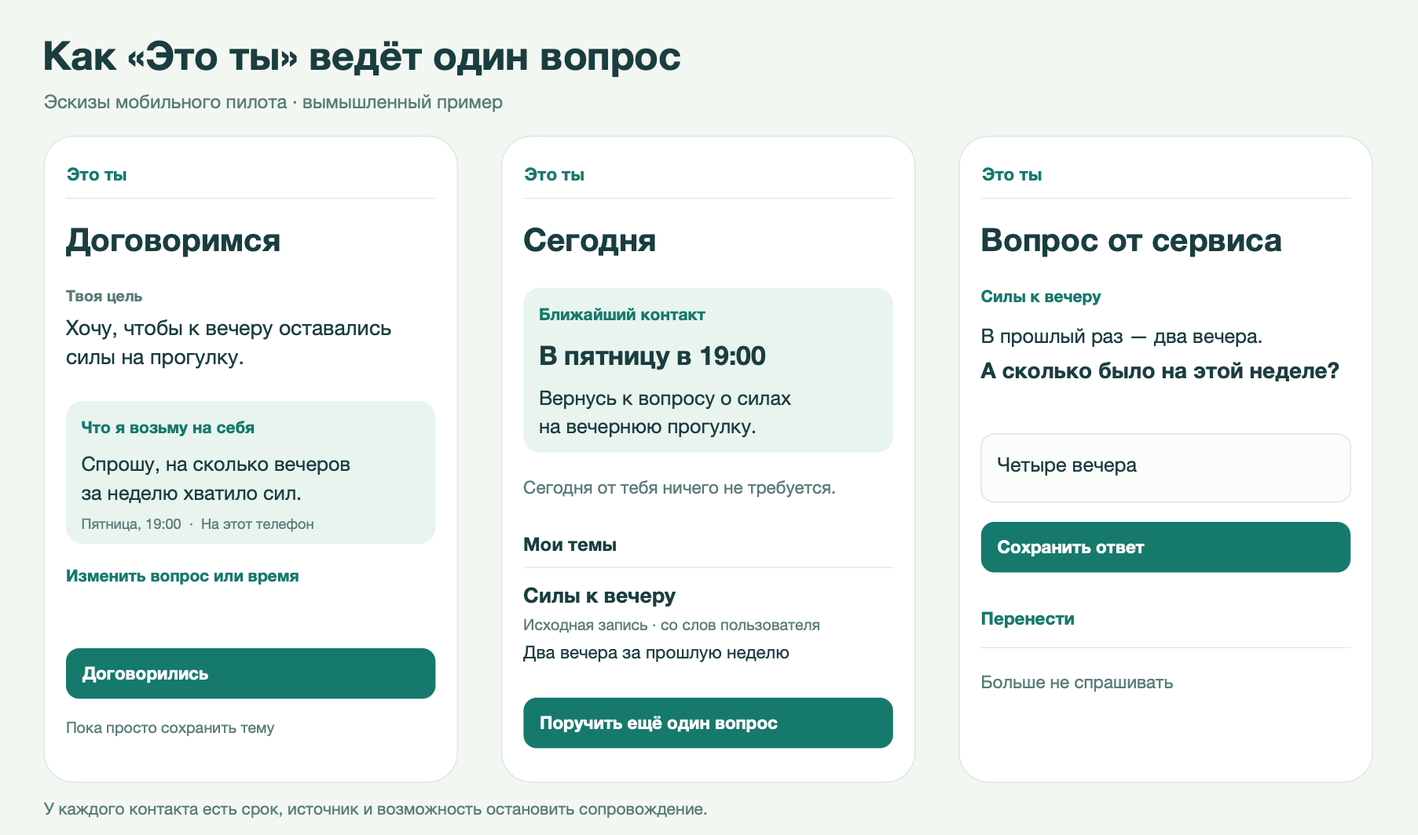
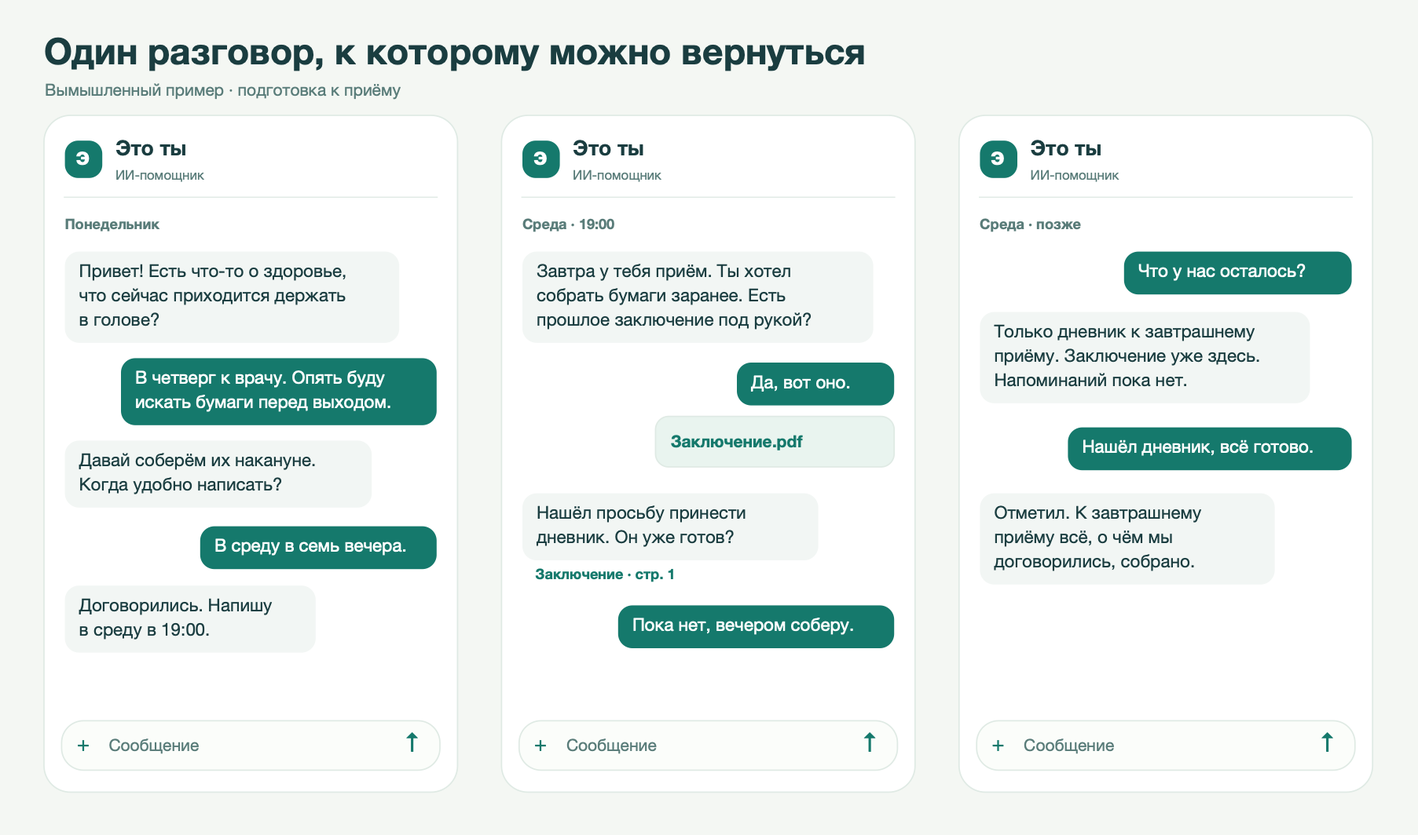
Design proactive care around one continuous conversation

diff --git a/docs/plan/screens.md b/docs/plan/screens.md
@@ -1,60 +1,51 @@
-# Экраны и поведение
+# Один разговор с «Это ты»
 
 [План проекта](README.md)
 
-![Три мобильных экрана. Человек соглашается на вопрос в пятницу, видит его на главной и отвечает с учётом прошлого наблюдения.](screens.png)
+![Одна переписка в три разных момента. Помощник первым знакомится, возвращается накануне приёма и отвечает, что осталось сделать.](screens.png)
 
-На телефоне три постоянные вкладки: **Сегодня**, **Диалог**, **История**. Сегодня отвечает на вопрос «Что поручено и когда я понадоблюсь?». Диалог принимает свободный ввод. История позволяет найти источник и понять, почему изменился план. Темы открываются из «Сегодня», документ — из диалога, истории или конкретного факта. Настройки доступны с «Сегодня». На большом экране те же адреса и значения, детали можно показать справа. Идентификатор в ссылке не раскрывает тему.
+После входа человек видит последнюю часть своей переписки. При первом открытии его уже ждёт короткое сообщение от «Это ты». В шапке — «Это ты · ИИ-помощник» и доступ к профилю. Внизу — поле ответа, системная диктовка и, на этапе B, вложение. В обычном сценарии этого достаточно: написать о себе, задать встречный вопрос, поручить дело, изменить срок или остановить обращения можно своими словами. Человек видит один знакомый голос. Если позже к разговору действительно присоединится врач, его сообщения получат имя и роль.
 
-## Карта переходов
+## Как это звучит
 
-```mermaid
-flowchart TD
-    Start["Первый вход"] --> Talk["Диалог"]
-    Talk --> Agree["Предложение и срок"]
-    Agree --> Today["Сегодня"]
-    Today --> Topic["Тема и план"]
-    Topic --> Evidence["Источник"]
-    Talk --> Review["Разбор документа"]
-    Review --> Evidence
-    Review --> Topic
-    Push["Уведомление"] --> Check["Вопрос сервиса"]
-    Today --> Check
-    Check --> Topic
-    History["История"] --> Evidence
-    History --> Topic
-    Topic --> Brief["Сводка к приёму"]
-```
+**После подписки.** «Привет. Я помогу помнить о том, что касается твоего здоровья. Есть что-то, что сейчас приходится держать в голове?» Человек: «В четверг к врачу. В прошлый раз опять искал бумаги в последний момент». Помощник: «Могу написать накануне, чтобы спокойно всё собрать. Когда удобно?» — «В среду в семь вечера». После сохранения и при включённом канале: «Договорились. Напишу в среду в 19:00». Если человек отвечает «у меня всё нормально», предложить одну лёгкую возможность: «Хочешь, через неделю я спрошу, как ты себя чувствуешь?» Отказ оставляет переписку открытой для его собственного сообщения.
 
-## Спецификация экранов
+**В среду в 19:00.** Помощник пишет первым: «Завтра у тебя приём. Ты хотел заранее собрать бумаги. Есть прошлое заключение под рукой? Можно прислать фото сюда». Если человек отвечает «уже всё собрал», сервис закрывает поручение и сообщает об этом. Если загружает документ, помощник может, после проверки, ответить: «Нашёл в заключении просьбу принести дневник. Ты его уже подготовил?» Нажатие на цитату открывает страницу. Человек может в любой момент сменить тему или задать вопрос, зачем нужен файл.
 
-A — первый работающий цикл, B — документы и сводка, C — один рецензированный сценарий профилактики. Идентификаторы используются в очереди разработки и приёмке. Регистрацию и восстановление учитываем в маршруте, даже если первые показы проходят на синтетическом профиле.
+**В любой день.** «Что у нас осталось?» — «К приёму остался дневник. Его просили принести в прошлом заключении. Следующих напоминаний пока нет». Сводка строится по фактическому состоянию на момент запроса. «Давай пореже» при согласованной еженедельной беседе — «Как насчёт раза в две недели?» После «да» сервис меняет серию и называет новую дату. «Больше не спрашивай про сон» сразу останавливает обращения по этой теме. «Вообще пока не пиши первым» ставит на паузу все инициативные обращения и сообщает, что человек может сам написать в любой момент.
 
-| Экран | Что сверху вниз на телефоне | Основное действие и куда ведёт | Если что-то пошло иначе |
-|---|---|---|---|
-| S01 · Первый вход и доступ · A | Одно предложение о сервисе, поле «Что взять на себя?», вторичный вход для вернувшихся. До создания аккаунта — локальное демо с вымышленной историей. Для сохранения — вход и краткое объяснение, где будут данные | «Начать» → S03. Дать попробовать текст, позже предложить сохранить договорённость | «Пока не знаю» открывает два примера или пустое «Сегодня». Незавершённая авторизация не создаёт расписание. По ссылке из пуша после входа открывается тот же вопрос, если он ещё активен |
-| S02 · Сегодня · A | Сначала одно дело, требующее участия прямо сейчас. Затем ближайший контакт с датой и каналом. Ниже темы с последним источником. Кнопка «Поручить вопрос», вход в настройки | Ответить → S05, открыть тему → S06, начать новую → S03 | В пустом профиле одна точка входа. В спокойный день «Сегодня от тебя ничего не требуется» с датой следующего контакта. Если внешняя связь выключена, сообщить, что вопрос появится внутри |
-| S03 · Диалог · A/B | История разговора, одно короткое уточнение, поле ввода, затем фото/PDF в B. Сохранённые факты и предложенные действия различимы прямо в ленте | Из свободной фразы показать редактируемое предложение → S04. Из файла → S07. Пользователь может ответить диктовкой клавиатуры | Кнопки «Пропустить» и «Зачем спрашиваете?». При таймауте модели оставить введённый текст и предложить вручную сохранить тему. Повторная отправка одной фразы после обрыва не создаёт второе поручение |
-| S04 · Подтвердить договорённость · A | Название темы, что берёт сервис, какой вопрос задаст, когда по местному времени, по какому каналу, что потребуется от человека | «Договорились» → S02 с карточкой ближайшего контакта. «Изменить» оставляет текст редактируемым | Неизвестный срок из выписки так и обозначается. Время добровольного напоминания указывается отдельно. Отказ от внешних уведомлений оставляет канал «только в приложении» |
-| S05 · Вопрос сервиса · A | Договорённость, прошлый ответ с датой, один сегодняшний вопрос, ответ в одну строку. Внизу «Перенести», «Больше не спрашивать» | После ответа показать, что изменилось и есть ли новый срок → S06. Для нового контакта требуется прежнее согласие на серию или новое подтверждение | По устаревшей ссылке показать «Вопрос уже закрыт/перенесён» и актуальную тему. На втором устройстве повторный ответ не дублируется. Пропуск не трактуется как плохое самочувствие |
-| S06 · Тема и план · A/B/C | Что человек поручил, состояние сопровождения, следующий шаг и его ответственный, затем «Что известно», «Что изменилось», «Чего пока не знаем». У каждого факта источник и дата | Переход к источнику S07, редактирование договорённости S04, завершение или пауза. В B — подготовить сводку S09 | При конфликте показываем обе записи и предлагаем уточнить. При потере источника видна последняя дата. Закрытую тему можно открыть заново с новой договорённостью |
-| S07 · Материал и проверка · B | Тип, дата документа, оригинал со страницей, выдержка рядом с распознанным полем. Явная метка «Нужно уточнить». Внизу будущие изменения плана | «Подтвердить» или исправить поле → обновлённая S06. Единым действием подтверждаются только хорошо читаемые и однозначные поля | Плохое фото — можно переснять, ввести только спорное место или отложить. Дубликат ведёт к ранее принятой версии. Документ другого человека не попадает в профиль |
-| S08 · История · A/B | Датированная лента. По каждому событию различимы дата самого события и дата загрузки. В B — фильтры по теме и типу, поиск документа | Открыть событие → S06 или S07, вернуться к старой версии плана | При нуле записей вход в диалог. После исправления видна связь между версиями. Удалённый источник больше не открывается |
-| S09 · К приёму · B | Выбранный период, цель визита, проверенные факты с датами, действующие поручения в исходной формулировке и вопросы. Предпросмотр одной страницы | Выбрать пункты → сохранить локальную копию или показать с экрана. Отправку врачу инициирует сам пользователь | При недостатке данных допускается сводка из одного вопроса. ИИ-гипотеза не становится фактом в экспорте. До сохранения видно, какие данные войдут |
-| S10 · Настройки, доступ и данные · A/B | Устройство и канал связи, тихие часы, часовой пояс, разрешения, сессии. В B — экспорт, удаление, обработчики файлов. Позже — тариф с датой окончания | «Проверить связь», «Пауза», выгрузить, отозвать согласие, удалить с отдельным подтверждением. После изменения виден эффект на ближайший контакт | При недоступном push предлагаем проверить канал. Окончание подписки сохраняет доступ к выгрузке и открытым делам в пределах объявленной политики хранения. По запросу на удаление показываем ход и срок |
-| S11 · Профилактика внутри темы · C | По какому вопросу проверяется применимость, какие признаки уже известны, что изменит одно уточнение, источник и дата рекомендации, что можно вынести на обсуждение с врачом | Ответить, приложить имеющийся источник или отложить → S06 с объяснением изменения | При отсутствии рецензированного правила или конфликте вывод остаётся открытым. Фраза «данных нет» не порождает список покупок |
+## Когда помощник берёт слово
 
-## Три ключевых разговора
+| Повод | Реплика и действие |
+|---|---|
+| Первое открытие | Одно приветствие и посильный вопрос. После повторного входа или оплаты другая сессия продолжает ту же переписку. Для внешнего контакта нужны согласованный повод и доступный канал. |
+| Настал согласованный срок | Начать с конкретной детали из прошлого разговора, задать один вопрос. Push нейтрален, открывает именно это сообщение в переписке. Если push выключен, при договорённости сказать «Вопрос будет ждать здесь». |
+| Новый материал меняет план | Кратко объяснить изменение, дать открыть основание, при неоднозначности задать одно уточнение. Повторная загрузка и каждый этап распознавания не вызывают отдельных пушей. |
+| Ответа пока нет | Оставить вопрос в переписке. Не делать вывод о самочувствии и не увеличивать частоту. Следующее необязательное обращение допустимо только при отдельной действующей договорённости. |
+| Несколько тем или долгое молчание | Сохранить контекст каждой темы за единым диалогом. Если «перенеси это» подходит к двум делам, назвать их и уточнить один раз. В тихий день план доступен по запросу, знакомство не начинается заново. |
 
-**Начало с одной фразы.** Человек пишет «К вечеру часто не остаётся сил на то, что я планировал». Сервис отвечает «Что удобнее отслеживать — сколько вечеров за неделю у тебя хватало сил, или хочешь сформулировать свой вопрос?» После выбора: «Сколько таких вечеров было за прошлую неделю? Можно пропустить». Карточка предлагает пятницу и время, даёт их изменить. Пользователь может поручить только один контакт. Для неопределённого ответа предусмотрен выход «Сохранить тему и вернуться позже» без внешнего сообщения.
+## Состояния интерфейса для разработки
 
-**Инициатива через неделю.** На экране блокировки нейтральное «Это ты · есть запланированный вопрос». После входа: «В прошлый раз ты назвал два вечера. А сколько было на этой неделе?» После «четыре» человек видит обе записи, может добавить контекст, завершить наблюдение или договориться ещё на неделю. Если ответа нет, вопрос остаётся на «Сегодня». Ежедневных догоняющих сообщений по умолчанию нет.
+Номера S01–S11 связывают работу с очередью разработки. Пользователь проходит повседневный путь в одном окне. Разворачиваем деталь, только когда человеку полезно посмотреть источник, сверить несколько пунктов, дать системное разрешение или получить копию. После закрытия детали восстанавливаем место в переписке и набранный черновик.
 
-**Две темы и один документ.** Вымышленная выписка содержит поручение принести дневник и отдельно упоминает запись о сне. Сервис предлагает две связи с одной страницей. Пользователь подтверждает только поручение, а неоднозначную запись оставляет открытой. Следующая выписка явно говорит «дневник просмотрен» — в истории появляется предложение закрыть именно это поручение. Вторая тема остаётся доступна с прежней историей. Врачебный срок и договорённое время следующего контакта имеют разные подписи и поля.
+| Состояние | Как человек попадает сюда | Что делает сервис и как выйти |
+|---|---|---|
+| S01 · Знакомство и вход · A | Первое открытие или возврат по ссылке | Показывает приветствие один раз. Синтетический пример доступен до регистрации. Для личного сохранения поясняет вход. Возврат из авторизации ведёт к исходной реплике. |
+| S02 · Короткая сводка · A | «Что ты сейчас ведёшь?», «Мне сегодня что-то нужно?» | Отвечает в диалоге: что открыто, кто действует, когда следующий контакт и какие каналы доступны. При нескольких темах можно развернуть полный список. Пустой план и пауза названы прямо. |
+| S03 · Переписка · A/B | Открытие приложения, собственная фраза или вложение | Постоянная лента и строка ввода. Текст, диктовка клавиатуры, позднее фото/PDF. При обрыве сохраняется черновик; повтор отправки не создаёт ещё одно дело. |
+| S04 · Договорённость · A | «В среду в семь», «давай только один раз» | Рядом с предыдущей репликой подтверждает понятный вопрос, срок и доступный канал. Уточняет только неоднозначное. Неизвестный срок из документа остаётся открытым. Пока запись не сохранена, обещание «напишу» не показывается. |
+| S05 · Инициатива · A | Наступил срок; открыли пуш или сам диалог | Помощник первым задаёт вопрос в той же ленте. Можно ответить, перенести, закончить или поговорить о другом. По старой ссылке показывается актуальный статус и реплика, к которой относился контакт. |
+| S06 · Тема подробнее · A/B/C | «Что мы знаем по этой теме?» или раскрытие упоминания | Показывает известное, источник, пробел и ответственного. Пауза или изменение срока работают и обычной фразой. Если источник устарел, дата видна. |
+| S07 · Материал и проверка · B | Прислали файл или открыли цитату | В чате короткий итог; по касанию оригинал, страница, фрагмент и спорные поля. Можно исправить словами, переснять или отложить. При неоднозначной принадлежности файл остаётся вне личной истории до уточнения. |
+| S08 · Поиск по прошлому · A/B | «Найди, что я говорил в прошлый раз» | Возвращает выдержку со ссылкой на исходное сообщение или документ, датой события и при необходимости датой загрузки. Схожие совпадения можно раскрыть списком. |
+| S09 · Сводка врачу · B | «Собери к приёму» | Предлагает предпросмотр: задача визита, факты и вопросы. Человек выбирает, что включить и кому передать. Сам запрос на сборку никому ничего не отправляет. |
+| S10 · Связь, подписка и данные · A/B | «Пиши пореже», «выгрузи историю», значок профиля | Обычное изменение применяется с краткой квитанцией. Прямой доступ к паузе, экспорту, системным разрешениям и удалению есть также в профиле. Удаление и передача третьему лицу требуют явного подтверждения конкретного действия. |
+| S11 · Профилактическое уточнение · C | Возник вопрос с основанием в проверенном правиле | Объясняет одним предложением, зачем нужен ответ и что он изменит. Можно приложить имеющийся документ или пропустить. В подробностях — источник, версия и пределы применимости. |
 
-## Решения по взаимодействию
+## Что значит «присутствие» при приёмке
 
-- При нескольких одновременных делах сначала уже согласованное на сегодня, затем действие с известным сроком, затем необязательное уточнение. Равные по приоритету дела сортируем по сроку. Исключительный сценарий просьбы о срочной помощи прерывает обычный разговор и следует отдельному, проверенному для региона тексту. Очередь сервиса не обеспечивает срочной связи.
-- Ограничение продукта для пилота — одно необязательное инициативное обращение в согласованное окно. Изменившееся поручение, молчание человека или покупка подписки не дают автоматического согласия усилить частоту. Контакты можно объединить в один входящий элемент со списком.
-- Важные состояния имеют текст и доступны без различения цветов. Проверяем основной путь с крупным системным шрифтом, клавиатурой и VoiceOver. Длинное сообщение, пустой ответ и недоступность микрофона не блокируют текстовый ввод.
-- Во всех трёх вкладках данные берутся из одной версии плана. После нескольких дней без связи экран показывает дату последнего обновления. На первом этапе чувствительные данные не сохраняем для полноценной офлайн-работы на общем устройстве.
+- Основатель на телефоне без экскурсии и поиска разделов проходит знакомство, согласует контакт, получает первое инициативное сообщение, отвечает и меняет следующую договорённость обычной речью.
+- Когда человек заговорил о другой теме, ответ возвращается к его текущей реплике. Незавершённое дело остаётся в плане. Тот же вопрос на Mac открывается с ответом, уже написанным на телефоне.
+- Помощник вспоминает только сведения с доступным основанием. На «почему ты спросил?» отвечает конкретной прошлой фразой, цитатой или согласованным сроком. Если данных не хватает, говорит, чего именно не знает.
+- Важные состояния различимы текстом при крупном шрифте и VoiceOver. Второстепенные детали доступны по нажатию. Обычная пауза работает сразу; для чувствительных действий сохраняется ясное подтверждение.
+- Просьбу о срочной помощи обрабатывает отдельный проверенный для региона сценарий. Интерфейс указывает, кто пишет и есть ли живой специалист на связи. Нейтральное приглашение на заблокированном экране не раскрывает личную тему.

diff --git a/docs/plan/architecture.md b/docs/plan/architecture.md
@@ -27,7 +27,7 @@ flowchart TD
 | API и модуль плана | Аутентификация, проверка владельца, обработка команд, версии записей, согласия, экспорт. Только этот модуль принимает изменение плана. Клиент и модель не пишут в таблицы плана напрямую. |
 | Фоновый процесс | Забирает задания с ограниченным сроком захвата, разбирает файл или готовит контакт. После сбоя захват истекает, задачу можно повторить. Повтор не создаёт второй факт, действие или входящий вопрос. |
 | Модуль знаний и ИИ | Читает минимально необходимый контекст одной учётной записи, выдаёт типизированные предложения с основаниями. Правила допуска и проверка источника выполняются независимо от генерации текста. Допускается ответ «недостаточно сведений». |
-| Уведомления | В базе сначала появляется доступный из «Сегодня» вопрос. Push — средство позвать к нему. На старте выбирается одно основное устройство для внешнего контакта; на других актуальный вопрос виден при входе. |
+| Уведомления | В базе сначала появляется привязанное к контакту входящее сообщение единой переписки. Push — средство позвать к нему. На старте выбирается одно основное устройство для внешнего контакта; на других актуальный вопрос виден при входе. |
 | Эксплуатация | Отдельные среды демонстрации, тестирования и пилота. Обезличенные технические события, доступ к сбоям по коду причины, выключатели внешних отправок и обработки моделью. Ручной просмотр медицинского материала — только по определённой роли, основанию и с записью доступа. |
 
 **Почему проверяем телефон в самом начале.** WebKit описывает Web Push для веб-приложений, добавленных на домашний экран iOS, и запрос разрешения после прямого действия человека. Поэтому «разрешить уведомления» появляется после выбора срока. На реальном iPhone проверяем установку, системный запрос, закрытый клиент, режим фокусирования, переход после входа и отзыв разрешения. При недоступном канале честно показываем «вопрос появится в приложении». Если люди не проходят этот шаг или канал ненадёжен, пробуем согласованный альтернативный канал либо тонкий нативный клиент, сохраняя серверный план. [WebKit](https://webkit.org/blog/13878/web-push-for-web-apps-on-ios-and-ipados/) · [Протокол Web Push](https://www.rfc-editor.org/rfc/rfc8030)
@@ -39,6 +39,7 @@ flowchart TD
 | Сущность | Минимум данных | Смысл связи |
 |---|---|---|
 | Account, Device, Consent | Идентификатор, сессия, локаль, часовой пояс IANA, основной канал, область и версия согласия, время отзыва | Отдельные разрешения на внешнюю связь, передачу материалов обработчику и доступ человека. Покупка тарифа их не подменяет. |
+| Conversation, Message | Один постоянный диалог на профиль в пилоте, автор и его роль, порядок на сервере, время, ссылка на исходную реплику, тему и контакт | Инициативное сообщение пишется в ту же ленту. Источники и тема не зависят от прокрутки истории. Автором отображается ИИ; участие человека должно быть подтверждено. |
 | Topic | Слова пользователя, цель, статус, дата обновления, владелец следующего действия | Одна учётная запись ведёт несколько тем. Один проверенный факт может относиться к нескольким темам. |
 | Source, Evidence | Тип источника, закрытый ключ объекта, отпечаток внутри профиля, дата, страница и фрагмент; для сообщения — идентификатор и цитата | Первичный материал отделён от извлечённых значений. Можно вернуться к конкретной фразе, в том числе после повторного разбора. |
 | Observation | Тип, исходный текст, дата события, значение и единица при наличии, статус проверки, ссылки на Evidence, предыдущая версия | Ответ пользователя, измерение и запись врача имеют разное происхождение. Уточнение создаёт версию и помечает зависимые выводы к пересмотру. |
@@ -55,17 +56,20 @@ flowchart TD
 
 | Команда | Что принимает и возвращает | Правило |
 |---|---|---|
-| POST /messages | Текст, clientRequestId, необязательная тема → сообщение и proposalId либо один вопрос | Повтор запроса с тем же ключом возвращает исходный результат. Перед долгой обработкой подтверждаем приём отдельно. |
+| GET /conversation/messages | Курсор, позиция или messageId из push → история и актуальные статусы, включая паузу | Оба устройства дочитывают одну ленту в серверном порядке. Устаревшая ссылка открывает исходный контекст и текущее состояние. |
+| POST /messages | Текст, clientRequestId, необязательные ссылки на реплику и тему → ответ, уточнение или результат команды | Повтор возвращает прежний результат. «Да» связывается с конкретным действующим предложением. Сообщение «перенёс» появляется только после успешной записи новой версии. |
 | POST /proposals/{id}/accept | Исправленный вопрос, владелец, срок, зона, канал, ожидаемая версия → planItemId и следующий контакт | Предложение, новое действие и запись в очереди связываются в одной транзакции. |
-| GET /today и GET /topics/{id} | Версия плана, время актуальности, очередь, следующий срок, источники | Один и тот же источник данных для трёх вкладок и обоих устройств. |
+| GET /plan/summary и GET /topics/{id} | Версия плана, время актуальности, очередь, следующий срок, источники | Ответ «что ты ведёшь?» и раскрытая деталь строятся по тому же плану, что использует расписание. |
 | POST /contacts/{id}/responses | Ответ, перенос или остановка, ключ запроса, ожидаемая версия → итог и актуальный план | Запоздалый ответ не возобновляет закрытый контакт. При конфликте клиент получает свежую версию и выбор, как сохранить новый контекст. |
 | POST /sources и подтверждение загрузки | Тип, размер, отпечаток → короткоживущий доступ к закрытому объекту → статус обработки | Ограничиваем формат и размер, валидируем содержимое. Повтор задания и повторный файл одного владельца распознаются отдельно. Незавершённый объект истекает. |
 | POST /observations/{id}/corrections | Новое значение, причина, версия → обновлённый факт и затронутые предложения | Пересчитываем только зависимые темы. Историческую формулировку и дату можно проверить до удаления источника. |
 | POST /exports и DELETE /account | Объём выгрузки или подтверждённый запрос удаления → состояние операции | Повтор безопасен. Сразу блокируем будущие отправки, завершаем удаление из рабочих систем и учитываем срок истечения резервных копий. |
 
+**Как реплика превращается в действие.** Сначала различаем вопрос о плане, новый факт, новое поручение, ответ на прежнее предложение и команду изменения. По ссылке на реплику, теме и открытой договорённости выбираем цель. Если возможны две, задаём одно уточнение. Уверенно распознанное «не пиши первым» ставит инициативные контакты на паузу в пределах указанной темы или всего профиля. «Пореже» требует согласовать новый интервал. Для просмотра плана достаточно чтения. Для изменения используем те же доменные команды и ожидаемую версию, что и при прямом управлении из профиля. Сообщение с итогом и изменение записываются согласованно. Новый текст из приложенного документа не может сам дать разрешение на операцию.
+
 **Состояния поручения.** Предложено → согласовано → ждёт срока → ждёт ответа → результат учтён. Дополнительные переходы — отклонено, перенесено, на паузе, закрыто. Перенос увеличивает версию и заменяет будущий контакт. Закрытие из любой активной стадии отменяет будущие задания. Ответ без договорённости о продолжении завершает цикл. Отправка push сама по себе не закрывает ни одно действие.
 
-**Как дойдёт инициативный вопрос.** При подтверждении сохраняем план и задание в одной транзакции. В срок обработчик повторно проверяет статус, версию, канал, согласие, доступ к сопровождению и тихие часы. Создаёт один входящий вопрос с уникальным ключом «поручение + версия + запланированное наступление», затем пытается отправить его во внешний канал. Перед повтором проверяет те же условия. Временные сбои повторяем ограниченно с увеличением задержки до истечения срока. Отзыв подписки устройства прекращает попытки. Принятие сообщения провайдером, открытие и ответ измеряем отдельно. При сетевом сбое после принятия провайдером абсолютная гарантия единственного баннера недостижима; используем один идентификатор уведомления и одну запись во входящих. При гонке с закрытием устаревшая ссылка ведёт к обновлённой теме.
+**Как дойдёт инициативный вопрос.** При подтверждении сохраняем план и задание в одной транзакции. В срок обработчик повторно проверяет статус, версию, канал, согласие, доступ к сопровождению и тихие часы. Создаёт один входящий вопрос с уникальным ключом «поручение + версия + запланированное наступление», затем пытается отправить его во внешний канал. Перед повтором проверяет те же условия. Временные сбои повторяем ограниченно с увеличением задержки до истечения срока. Отзыв подписки устройства прекращает попытки. Принятие сообщения провайдером, открытие и ответ измеряем отдельно. При сетевом сбое после принятия провайдером абсолютная гарантия единственного баннера недостижима; используем один идентификатор уведомления и одну запись во входящих. При гонке с закрытием устаревшая ссылка ведёт к исходному сообщению с актуальным состоянием темы.
 
 **Время и два устройства.** Запоминаем, что значило «в пятницу в семь» в согласованной зоне. При смене зоны спрашиваем, оставить ли исходное местное время или перенести договорённость. Для неоднозначного или отсутствующего времени при переводе часов показываем конкретный рассчитанный момент до подтверждения. Открытие на Mac после ответа с телефона читает новую версию. Параллельное исправление не затирает первое молча.
 

diff --git a/docs/plan/delivery.md b/docs/plan/delivery.md
@@ -8,7 +8,7 @@
 
 | Период от старта | Результат | Что должно произойти до перехода дальше |
 |---|---|---|
-| Первая неделя | Отдельная ветка первой версии, три экрана на синтетическом профиле, проверка доставки на физическом iPhone | Основатель поручает тему с телефона; карточка содержит понятный срок и канал. При закрытом приложении приходит нейтральное приглашение либо испытание явно фиксирует сбой. Если установка мешает, решаем вопрос канала до PDF. |
+| Первая неделя | Отдельная ветка первой версии, одна переписка на синтетическом профиле от приветствия до повторного контакта, проверка доставки на физическом iPhone | Основатель поручает тему с телефона; помощник подтверждает в разговоре понятный срок и канал. При закрытом приложении приходит нейтральное приглашение либо испытание явно фиксирует сбой. Если установка мешает, решаем вопрос канала до PDF. |
 | К 30-му дню | Вход с двух устройств, сохраняемый план, ответ, перенос, отмена; семь дней собственного использования. После подготовки условий — несколько наблюдаемых показов на синтетических историях | На двух устройствах видна одна версия; после закрытия нет новых исходящих попыток по старой договорённости. Есть журнал того, что основателю удалось делегировать и когда приходилось напоминать сервису самому. |
 | К 90-му дню | Один тип PDF и фото, проверяемые факты, исправление, сводка для врача, выгрузка. Намечен двухнедельный внешний пилот на 10 взрослых, поровну в двух сценариях | Клинический рецензент и порядок работы с реальными документами определены до загрузки. Есть результаты сравнения с обычным чатом и напоминаниями, отдельный учёт фактической оплаты. При отсутствии условий продолжаем синтетическое тестирование и пользовательские интервью. |
 | К 180-му дню | Два последовательных месяца наблюдения в платной когорте, себестоимость по видам работы, решение о следующем канале и клинической теме | Платное продление после спокойного месяца, измеренный объём ручного труда, приемлемые расходы и безопасность. Если люди ценят только разовый документ, тестируем разовый разбор или сопровождение после визита как отдельный продукт. |
@@ -19,7 +19,7 @@
 
 | № | Работа и зависимость | Видимый результат и критерий готовности | Оценка |
 |---|---|---|---|
-| 01 | Первый вход, диалог, подтверждение и «Сегодня» на вымышленной истории. Без зависимостей | S01–S04. Написать свою цель, увидеть предлагаемый вопрос и срок, изменить их, подтвердить или отказаться. В пустом профиле есть польза без файла и анкеты. | 2–4 дня |
+| 01 | Приветствие помощника, свободная реплика, договорённость и сводка по запросу в одном диалоге. Без зависимостей | S01–S04. Человек отвечает на приветствие, меняет срок одной фразой и спрашивает «что ты ведёшь?». Всё проходит в одной переписке. В пустом профиле есть польза без файла и анкеты. | 2–4 дня |
 | 02 | Проверить внешний канал на физическом iPhone и закрытом приложении. Параллельно с 01 | Пользователь разрешает контакт по собственной кнопке. Ссылка открывает нужный пример. Отказ и отзыв разрешения видны на экране. В карточке испытания отмечены устройство, версия, время, увиденный результат. | 1–3 дня |
 | 03 | Сессии на двух устройствах, БД и команды плана. После 01 | Подтверждённая тема остаётся после перезагрузки, видна с Mac; есть проверка другого аккаунта и безопасный повтор команды. | 3–6 дней |
 | 04 | Расписание, входящие, ответ, перенос, пауза. После 02 и 03 | S02, S04–S06, S10. Один согласованный контакт завершается результатом; перенос и закрытие на втором устройстве переживают перезапуск процесса. | 3–6 дней |
@@ -33,8 +33,8 @@
 ### Первый рабочий спринт
 
 1. Взять 01 и 02. Подготовить три синтетических набора состояний: пусто, договорились, пришло время ответить. Записать исходный SHA в описание ветки. Работа идёт в коротких ветках; изменения и критерий приёмки видны с любого Mac.
-2. Показать основателю путь «одна фраза → предложение → сегодня» без подсказок. Спросить: «Что сервис теперь сделает сам? Когда? Что останется тебе?» Исправить экран, если ответ отличается от действительного плана.
-3. В испытании доставки создать нейтральный вопрос через две минуты. Закрыть приложение, увидеть приглашение на физическом устройстве, войти, ответить и открыть актуальную карточку с Mac после реализации 03–04. Повторить для отказа от push и отмены до срока. В отчёте различать ручное наблюдение, имитацию и автоматический тест.
+2. Показать основателю путь «помощник заговорил первым → ответ своими словами → договорённость → сводка по запросу» без подсказок. Спросить: «Что сервис теперь сделает сам? Когда? Что останется тебе?» Исправить экран, если ответ отличается от действительного плана.
+3. В испытании доставки создать нейтральный вопрос через две минуты. Закрыть приложение, увидеть приглашение на физическом устройстве, войти, ответить и прочитать ту же реплику и актуальный итог в переписке на Mac после реализации 03–04. Повторить для отказа от push и отмены до срока. В отчёте различать ручное наблюдение, имитацию и автоматический тест.
 4. Для каждого решения записать наблюдение, выбранное изменение и дату повторной проверки. В публичный репозиторий попадают вымышленные примеры и агрегированные выводы. Личный дневник и медицинские файлы туда не входят.
 
 ## Сквозная приёмка перед расширением пилота
@@ -43,8 +43,9 @@
 |---|---|
 | Пустой профиль, документов нет | Человек может выбрать личную цель, пропустить уточнение, увидеть один следующий шаг и стоимость усилия. |
 | Пользователь выбрал «только в приложении» | Пока клиент закрыт, внешний контакт не обещан. При открытии виден ожидающий вопрос. |
+| «Давай пореже», смена темы и «пока не пиши первым» | Частота согласована обычной репликой; при паузе следующие инициативные сообщения прекращаются. Новая тема сохраняет связь со своей историей. Человек сам может продолжать переписку. |
 | Подтверждение и повтор запроса после обрыва | Одна тема, одно действие, один входящий вопрос; повторная попытка не раздваивает план. |
-| Перенос, пауза, изменение зоны, истёкший доступ | Срок и зона в «Сегодня» совпадают с договорённостью. После отмены нет новых отправок. Старый баннер открывает актуальный статус. |
+| Перенос, пауза, изменение зоны, истёкший доступ | Срок и зона в ответе помощника совпадают с договорённостью. После отмены нет новых отправок. Старый баннер открывает актуальный статус. |
 | Документ с числом, неизвестной единицей, неоднозначной датой или отрицанием | Видны исходные слова; догадка не попадает в подтверждённые факты. Ошибка, меняющая клинический смысл, останавливает соответствующий сценарий до разбора. |
 | Дубликат, более старая выписка, конфликт двух источников | Порядок загрузки не подменяет порядок событий, обе версии видимы, повторная рекомендация не возникает автоматически. |
 | Сервис распознавания или модель недоступны | Можно внести свою фразу, увидеть статус файла, вернуться к плану. Согласованные контакты продолжают работать независимо от генерации текста. |
@@ -59,6 +60,7 @@
 | Гипотеза | Как измерять | Предлагаемый критерий решения |
 |---|---|---|
 | Понятен смысл подписки | После первых пяти минут участник своими словами называет задачу сервиса, срок и свою роль | 7 из первых 10 без подсказки. Если меньше, меняем первый экран и договорённость. |
+| Чувствуется инициатива без навязчивости | Спросить после недели: «Когда помощник сам вспомнил что-то важное? В какой момент сообщение было лишним?» Сверить примеры с конкретными репликами. Проверить, получилось ли изменить частоту своими словами | Если пользователи помнят только собственные обращения или вынуждены искать переключатели, доработать инициативу и понимание ответов до расширения числа функций. |
 | Сервис снимает работу с человека | До начала записать, что приходилось помнить. Через две недели попросить назвать конкретную заботу, ставшую легче, и показать её завершение в истории | 5 из первых 10 называют конкретный случай. Отдельно показываем обе группы и случаи, когда стало тревожнее. |
 | Инициатива работает | Знаменатель — согласованные контакты с действующим внешним каналом, срок которых наступил. Отдельно считаем появление во входящих, приём провайдером, подтверждённое человеком получение и ответ | Перед внешним пилотом пройти 10 контролируемых случаев доставки/отмены, включая закрытый клиент и потерю разрешения. Каждый пропуск классифицирован; ни одного нового отправления после подтверждённой паузы. |
 | Память лучше ручной связки | На одинаковых синтетических историях сравнить помощника с обычным ИИ-чатом и ручными напоминаниями. Врач вслепую оценивает происхождение, точность поручения, пропуск и своевременность его закрытия | Опасное искажение блокирует функцию. Для остальных ошибок и затрат публикуем числитель, знаменатель, тип случая и минуты человека. Усложняем архитектуру только при измеримом выигрыше. |

diff --git a/docs/plan/README.md b/docs/plan/README.md
@@ -4,11 +4,15 @@
 
 **Работа, которую человек хочет поручить:** «Запомни, что для меня важно. Сам вернись, когда появится повод. Если от меня нужен документ или ответ, объясни, что он изменит. Дай мне спокойно заниматься остальным». На экране в любой день видны границы договорённости. Улучшение качества жизни — гипотеза, которую отдельно измеряем со слов человека и, где уместно, в сравнительном исследовании.
 
+## Что человек открывает после подписки
+
+Одна личная переписка. При первом входе помощник сам здоровается и задаёт простой вопрос. При следующих встречах он помнит, о чём договорились, и возвращается с конкретным поводом. Человек пишет своими словами или пользуется диктовкой. Фотография и PDF входят в этот же разговор. На «Что ты сейчас ведёшь?» помощник кратко перечисляет дела, источники и ближайший срок. Подробности темы и документы раскрываются по запросу. Пауза всегда доступна и фразой, и через профиль.
+
 ## Как читать план
 
 | Когда нужна конкретика | Куда открыть |
 |---|---|
-| Показываем человеку три ключевых экрана и обсуждаем, что он поймёт | [Эскизы экранов на одном листе](screens.png) |
+| Показываем человеку три момента одной переписки и обсуждаем, что он поймёт | [Эскиз переписки](screens.png) |
 | Решаем, куда ведёт кнопка, какой вопрос задать, что увидит человек после ошибки | [Карта экранов и сценариев](screens.md) |
 | Проектируем хранение, связи между темами, ИИ, расписание, доступ и удаление | [Архитектура и контракты](architecture.md) |
 | Берём следующую задачу, оцениваем объём, проводим демонстрацию и принимаем решение | [Очередь разработки и проверки](delivery.md) |
@@ -27,12 +31,12 @@
 | Пятница | Получает короткое приглашение. Внутри видит прежний ответ и может написать «четыре вечера», перенести или закончить. | Сам начинает разговор, связывает ответ с той же темой, фиксирует изменение. Причина изменения остаётся неизвестной. |
 | День 12 | Пересылает старую выписку. В ней есть поручение к следующему приёму. Дату приёма ещё не выбрал. | Показывает страницу и цитату. Оставляет срок открытым, сохраняет вопрос к приёму и спрашивает, нужен ли отдельный контакт. |
 | День 19 | Приходит новая запись врача о выполненном поручении. | Предлагает закрыть старое дело, показывает основание. После подтверждения убирает его из активного плана и отменяет связанный контакт. |
-| Тихая неделя | Открывает «Сегодня». Видит, что делать сейчас ничего не нужно, две темы в плане и дату следующего контакта. | Запрашивает сведения только когда ответ может изменить действие. Молчание объяснимо. |
+| Тихая неделя | Спрашивает «У нас что-то на сегодня?». Помощник отвечает, что сейчас действий нет, кратко напоминает об открытых темах и называет дату следующего контакта. | Запрашивает сведения только когда ответ может изменить действие. Молчание объяснимо. |
 | Конец периода | Видит, какие заботы удалось передать, и решает, стоит ли продолжать. | Отдельно показывает закрытые вопросы, открытые дела и дату окончания сопровождения. По желанию выдаёт копию истории и плана. |
 
 ## Что означает уровень контроля
 
-Уровень относится к задаче в конкретной теме. На главной можно честно сказать «сервис ведёт две согласованные темы, по одной нужен ответ». Процент обследованности организма и общий прогноз здоровья из этих чисел получить нельзя.
+Уровень относится к задаче в конкретной теме. В ответе о плане можно честно сказать «сервис ведёт две согласованные темы, по одной нужен ответ». Процент обследованности организма и общий прогноз здоровья из этих чисел получить нельзя.
 
 | Ступень | Что должно быть в истории | Что показать человеку |
 |---|---|---|

diff --git a/README.md b/README.md
@@ -4,7 +4,7 @@
 
 ## План приложения
 
-[Продукт, экраны, архитектура и порядок разработки](docs/plan/README.md). Первый этап мобильной версии — начать с одной фразы, увидеть договорённость и получить вопрос от сервиса в срок. Работающий прототип для Mac описан ниже.
+[Продукт, экраны, архитектура и порядок разработки](docs/plan/README.md). Мобильная версия задумана как постоянная переписка с ИИ-помощником. Он начинает знакомство, помнит прошлый разговор и первым пишет по договорённости. Поручить дело, приложить документ, попросить сводку и поставить общение на паузу можно прямо в разговоре. Работающий прототип для Mac описан ниже.
 
 ## Попробовать
 
